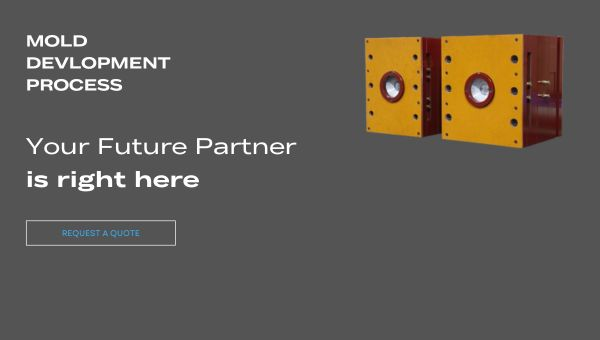
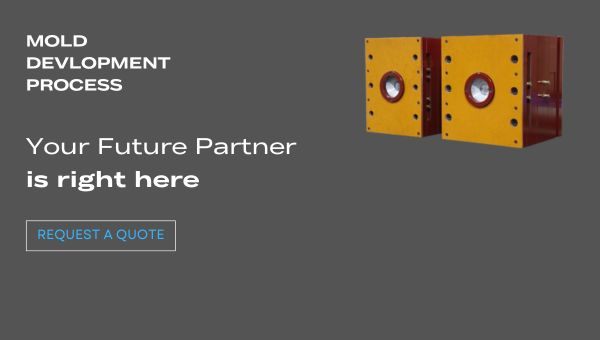
modify pic

Changed region(s): [[0.06, 0.6471, 0.27, 0.7647], [0.27, 0.7059, 0.3, 0.7353]]

diff --git a/source/sample.rst b/source/sample.rst
@@ -13,7 +13,8 @@ reStructuredText 示例
   <img src="_static/Home.jpg" usemap="#image-map">
 
   <map name="image-map">
-    <area target="" alt="Mold Design" title="Mold Design" href="https://www.centermold.com/en/latest/Mold-Design.html" coords="28,222,177,246" shape="rect">
+   <area target="_blank" alt="Mold Design" title="Mold Design" href="https://www.centermold.com/en/latest/Mold-Design.html" coords="29,223,176,251" shape="rect">
+
   </map>
 
 简介
